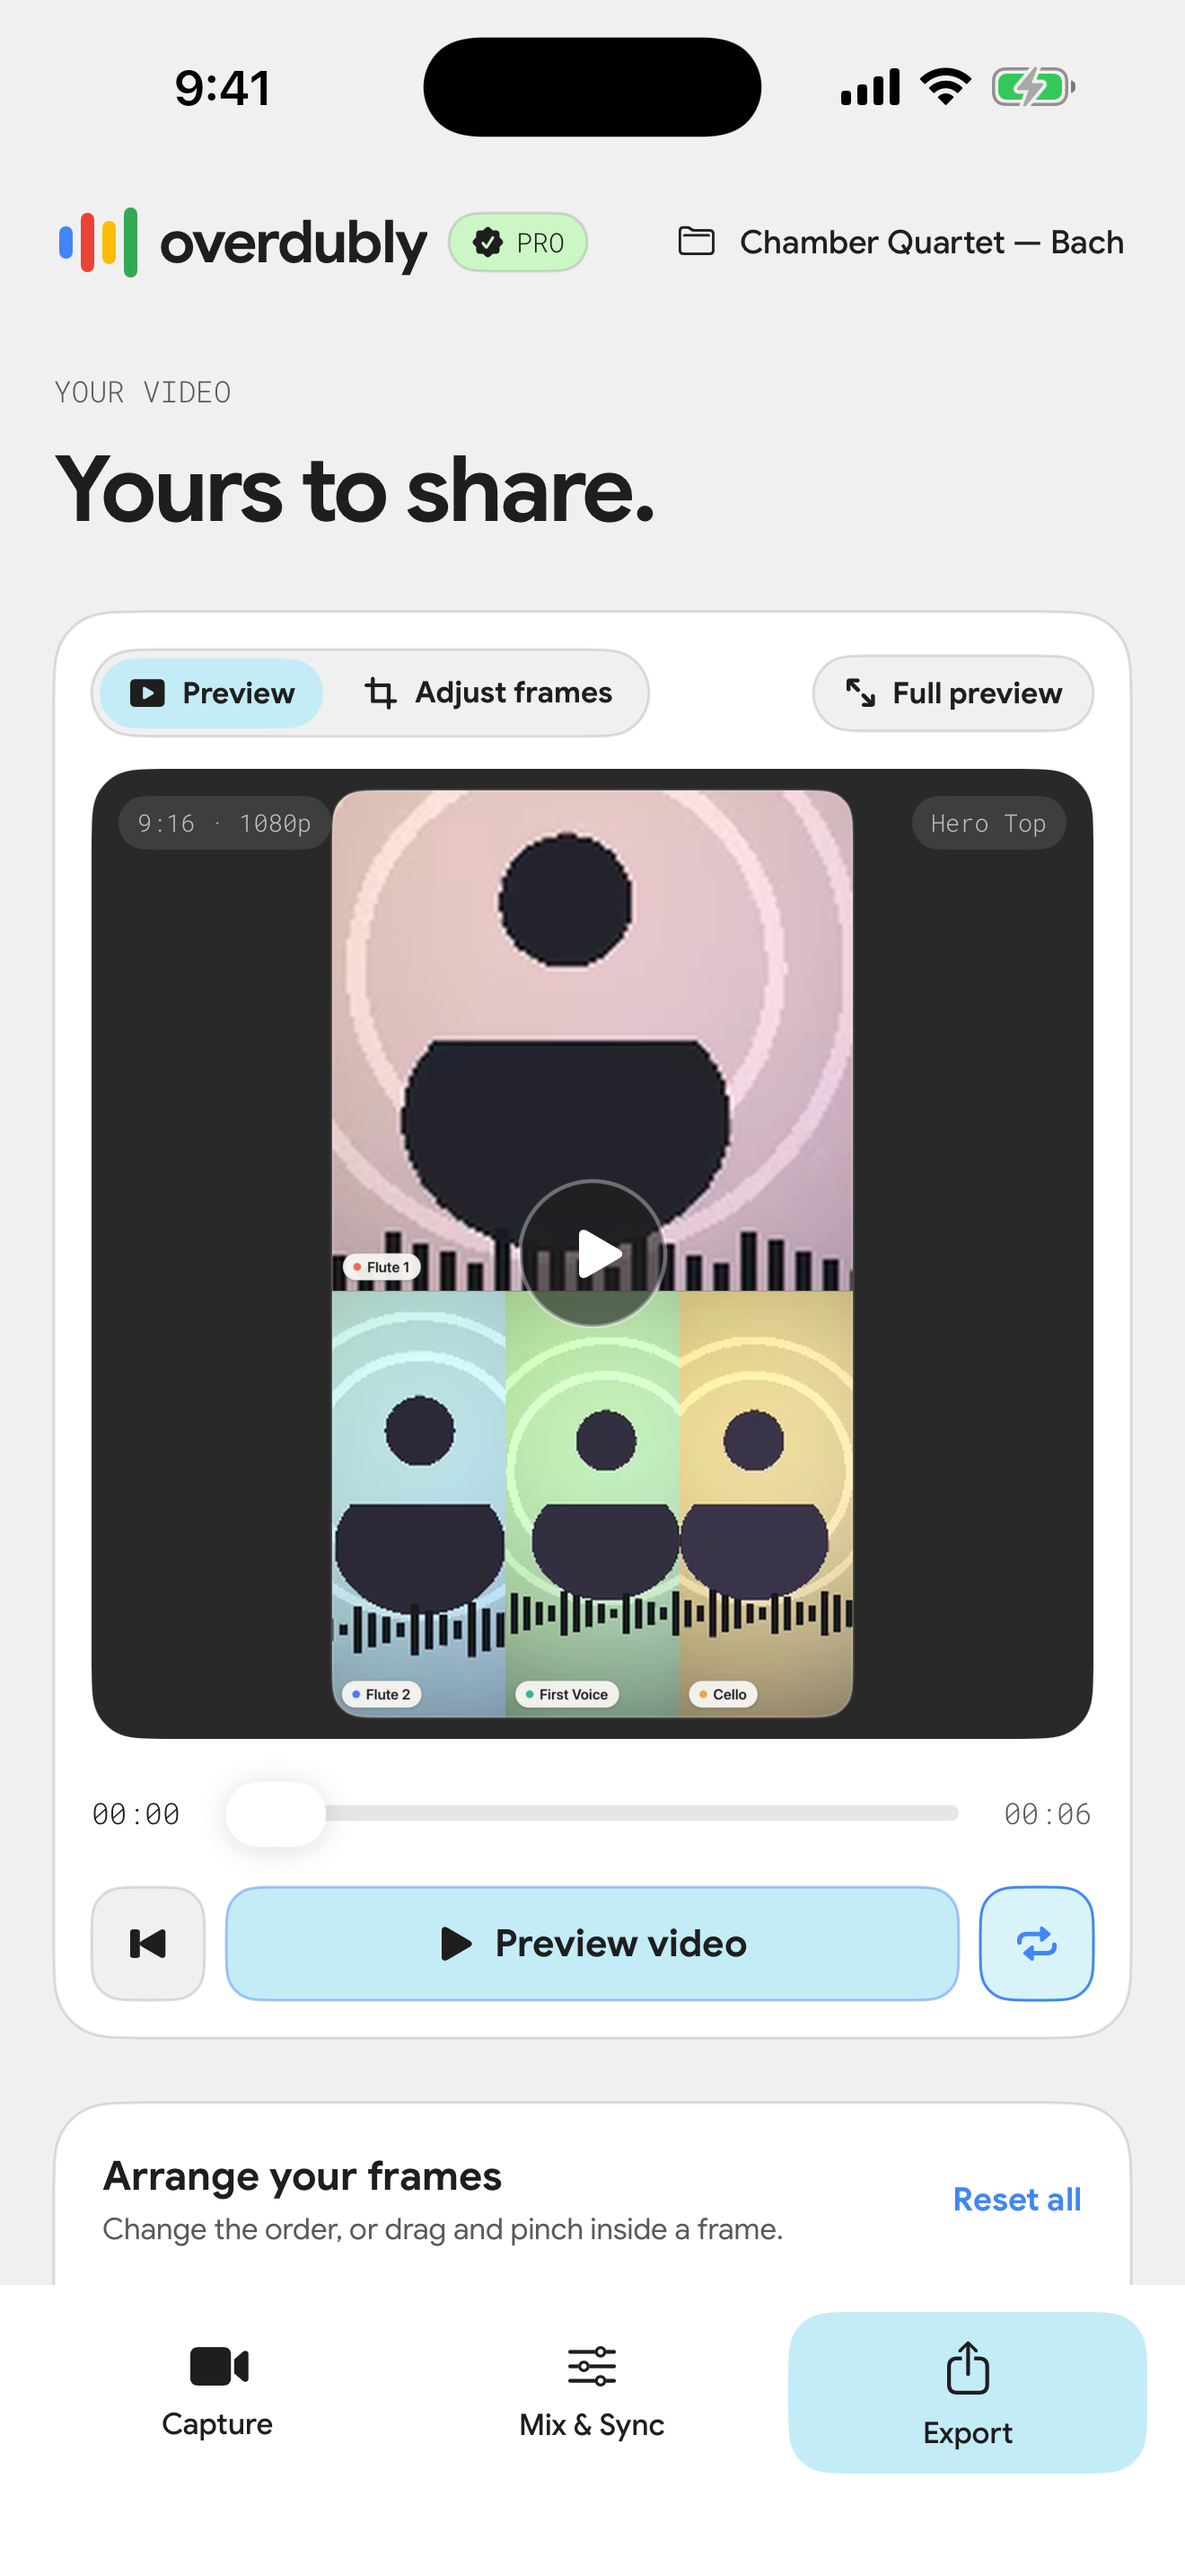
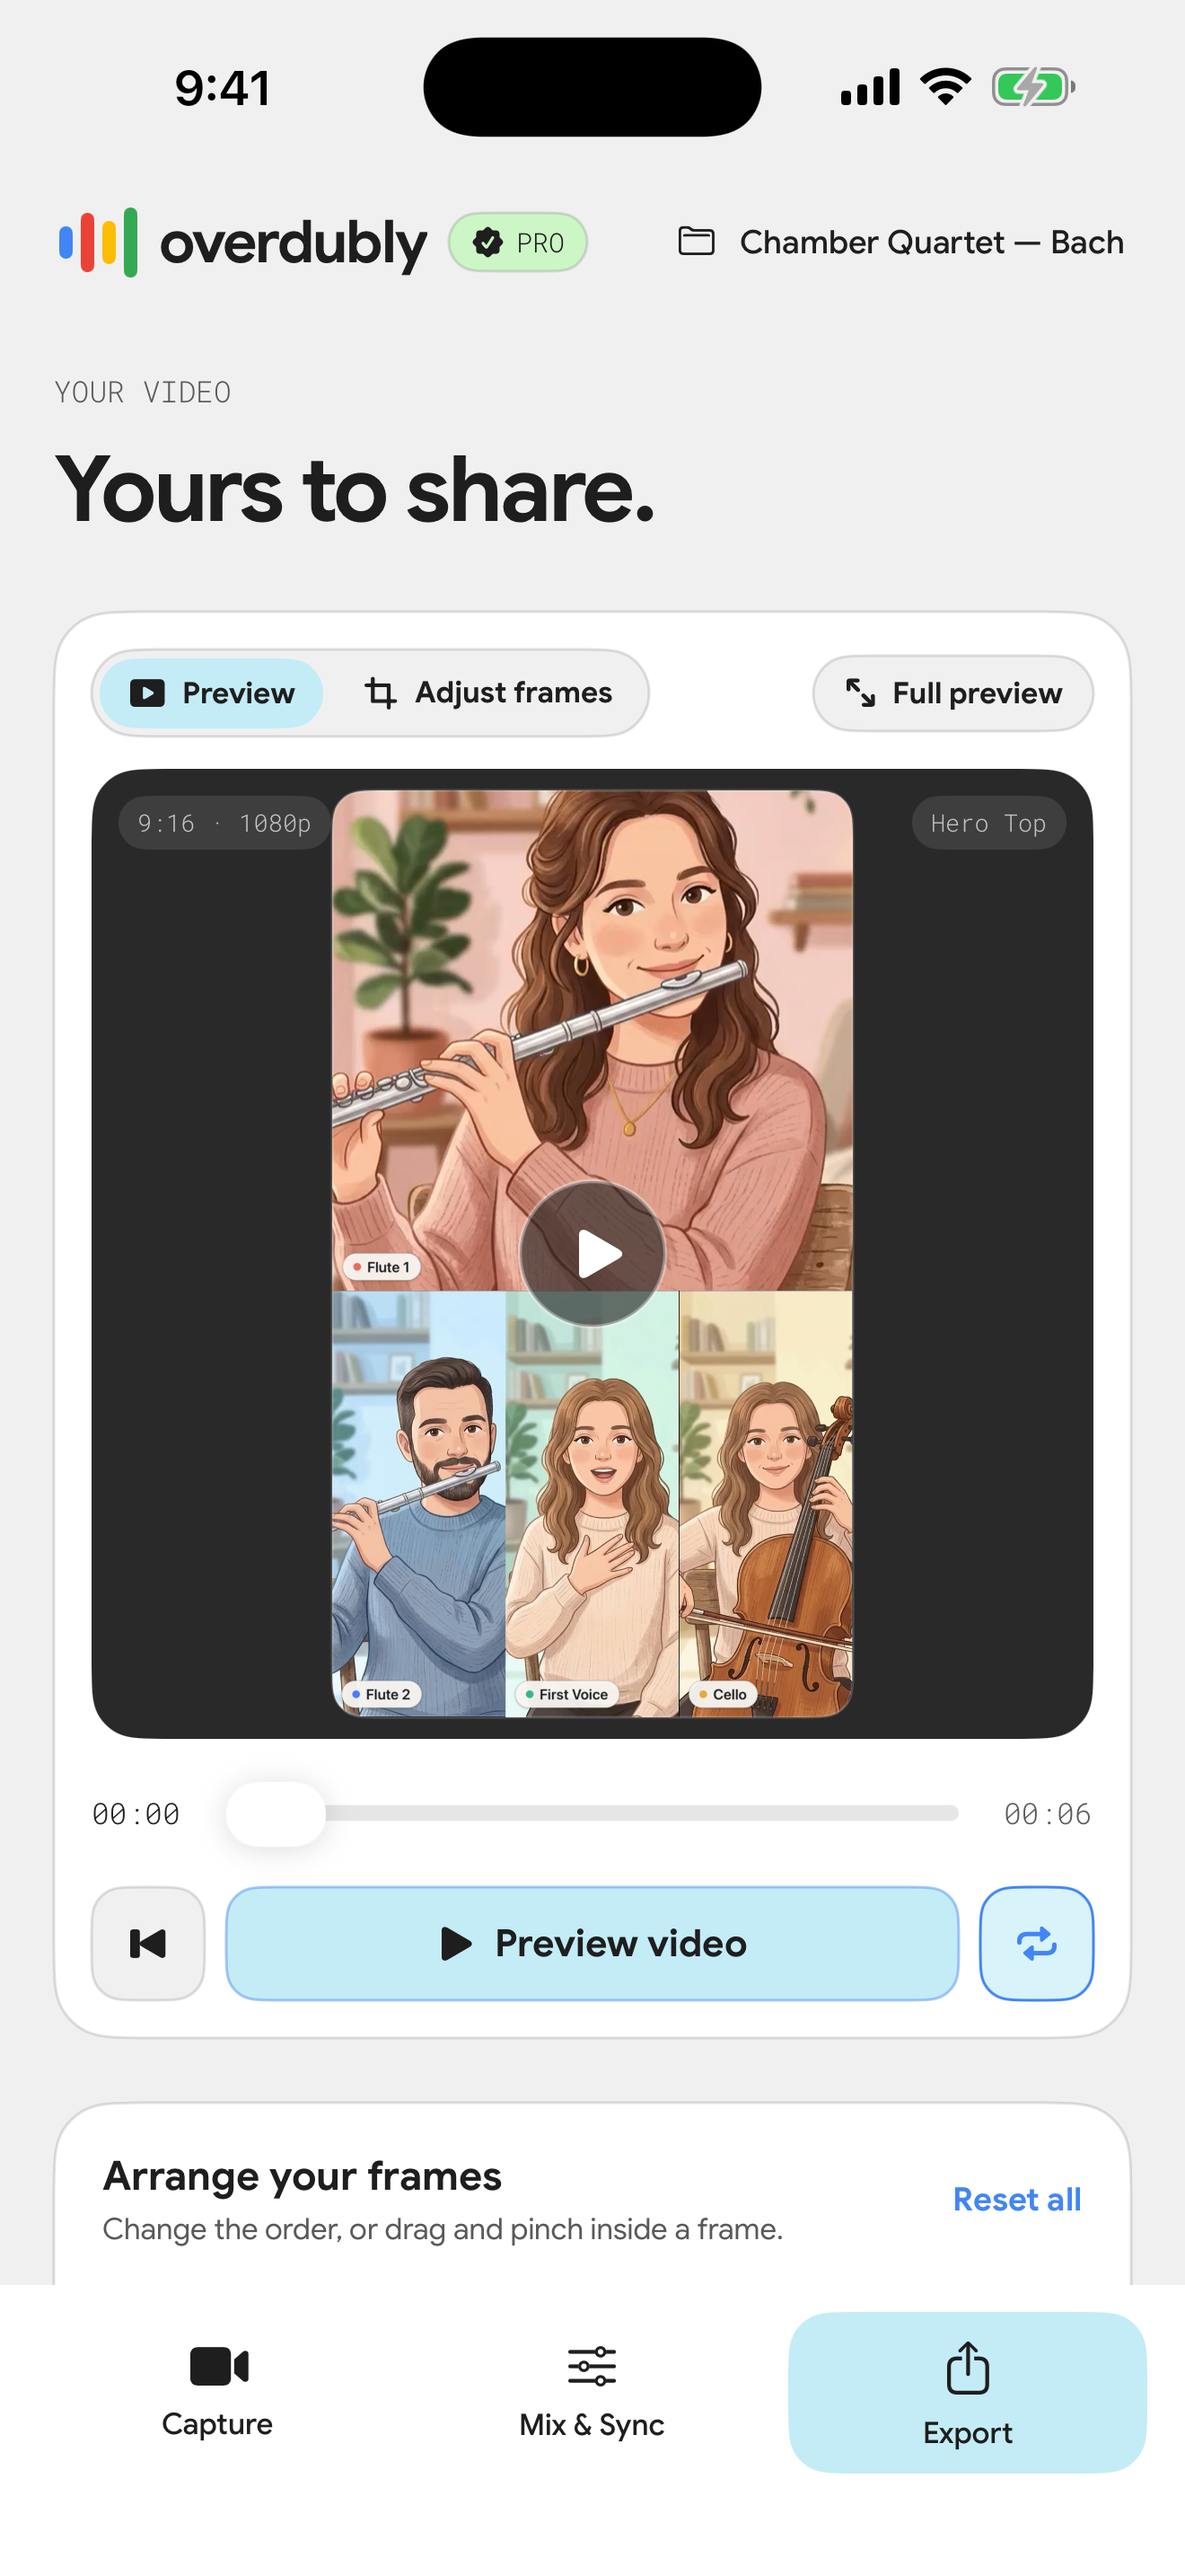
chore(screenshots): illustrated performers, story order, short captions
- Simulator fixture renders scripts/fixtures/part-N.png as sample clips.
- New hero scene (full-screen split-screen preview) leads the set.
- One short centered caption per screenshot (Apple asset best practices).
- Capture script creates simulators on demand and supports a DUO device.

Changed region(s): [[0.2795, 0.2793, 0.7455, 0.6827]]

diff --git a/scripts/generate_appstore_screenshots.swift b/scripts/generate_appstore_screenshots.swift
@@ -33,20 +33,22 @@ struct SceneMeta {
     let subtitle: String
 }
 
+// Ordered as a story (Apple asset best practices): outcome first, then how you get there.
+// `index` is the raw simulator scene captured by scripts/capture_appstore_scenes.sh.
 let scenesByLocale: [String: [SceneMeta]] = [
     "es-MX": [
-        SceneMeta(index: 1, badge: "01 · GRABA PARTE POR PARTE", title: "Cada parte. Todo tú.", subtitle: "Graba tu voz o tu instrumento con metrónomo y cuenta regresiva."),
-        SceneMeta(index: 2, badge: "02 · MÍRALO ANTES DE CREARLO", title: "Mira tu video completo.", subtitle: "Reproduce todas tus partes juntas antes de crear el video."),
-        SceneMeta(index: 3, badge: "03 · MEZCLA Y SINCRONIZA", title: "Mejor en conjunto.", subtitle: "Ajusta el volumen y alinea tus partes con un toque o a mano."),
-        SceneMeta(index: 4, badge: "04 · 16 DISEÑOS", title: "Acomoda cada cuadro.", subtitle: "Cambia el orden, arrastra y acerca cada parte sin volver a grabar."),
-        SceneMeta(index: 5, badge: "05 · TODAS TUS SESIONES", title: "Tus sesiones, a mano.", subtitle: "Guarda tus proyectos y retómalos cuando quieras. Sin cuentas.")
+        SceneMeta(index: 7, badge: "", title: "Tu canción, en una pantalla.", subtitle: ""),
+        SceneMeta(index: 1, badge: "", title: "Graba cada parte a tiempo.", subtitle: ""),
+        SceneMeta(index: 4, badge: "", title: "Acomoda cada cuadro.", subtitle: ""),
+        SceneMeta(index: 3, badge: "", title: "Mezcla y sincroniza.", subtitle: ""),
+        SceneMeta(index: 2, badge: "", title: "Guarda y comparte.", subtitle: "")
     ],
     "en-US": [
-        SceneMeta(index: 1, badge: "01 · RECORD PART BY PART", title: "Every part. All you.", subtitle: "Record your voice or instrument with a metronome and count-in."),
-        SceneMeta(index: 2, badge: "02 · SEE IT FIRST", title: "Watch the whole video.", subtitle: "Play all your parts together before you create the video."),
-        SceneMeta(index: 3, badge: "03 · MIX AND SYNC", title: "Better together.", subtitle: "Set the volume and line up your parts with one tap or by hand."),
-        SceneMeta(index: 4, badge: "04 · 16 LAYOUTS", title: "Arrange every frame.", subtitle: "Reorder, drag, and zoom each part without recording again."),
-        SceneMeta(index: 5, badge: "05 · ALL YOUR SESSIONS", title: "Your sessions, close by.", subtitle: "Keep your projects and pick them up anytime. No accounts.")
+        SceneMeta(index: 7, badge: "", title: "Your song, on one screen.", subtitle: ""),
+        SceneMeta(index: 1, badge: "", title: "Record every part on time.", subtitle: ""),
+        SceneMeta(index: 4, badge: "", title: "Arrange every frame.", subtitle: ""),
+        SceneMeta(index: 3, badge: "", title: "Mix and sync.", subtitle: ""),
+        SceneMeta(index: 2, badge: "", title: "Save and share.", subtitle: "")
     ]
 ]
 
@@ -95,66 +97,35 @@ func renderPoster(
     bgColor.setFill()
     NSBezierPath(rect: NSRect(x: 0, y: 0, width: W, height: H)).fill()
 
-    let marginX: CGFloat = isIPad ? 140 : 84
-    var cursorY: CGFloat = isIPad ? 92 : 88
+    let marginX: CGFloat = isIPad ? 120 : 64
+    var cursorY: CGFloat = isIPad ? 110 : 120
 
-    let badgeFont = NSFont.monospacedSystemFont(ofSize: isIPad ? 28 : 25, weight: .medium)
-    let titleFont = NSFont.systemFont(ofSize: isIPad ? 80 : 68, weight: .bold)
-    let subFont = NSFont.systemFont(ofSize: isIPad ? 42 : 36, weight: .regular)
-
-    // 1. Pill badge
-    let badgeAttrs: [NSAttributedString.Key: Any] = [
-        .font: badgeFont,
-        .foregroundColor: inkPrimary,
-        .kern: 1.2
-    ]
-    let badgeStr = NSAttributedString(string: meta.badge, attributes: badgeAttrs)
-    let badgeSize = badgeStr.size()
-    let pillH: CGFloat = isIPad ? 64 : 58
-    let pillW: CGFloat = badgeSize.width + 86
-
-    let pillRect = NSRect(x: marginX, y: cursorY, width: pillW, height: pillH)
-    accent.pillBg.setFill()
-    NSBezierPath(roundedRect: pillRect, xRadius: pillH / 2, yRadius: pillH / 2).fill()
-
-    let dotR: CGFloat = 10
-    let dotRect = NSRect(x: marginX + 22, y: cursorY + (pillH - dotR * 2) / 2, width: dotR * 2, height: dotR * 2)
-    accent.dot.setFill()
-    NSBezierPath(ovalIn: dotRect).fill()
-
-    badgeStr.draw(at: NSPoint(x: marginX + 54, y: cursorY + (pillH - badgeSize.height) / 2))
-    cursorY += pillH + 26
-
-    // 2. Title
+    // One short, centered caption (3-5 words) that stays legible at thumbnail size.
+    let titleFont = NSFont.systemFont(ofSize: isIPad ? 104 : 92, weight: .bold)
+    let titlePara = NSMutableParagraphStyle()
+    titlePara.alignment = .center
+    titlePara.lineSpacing = 4
     let titleAttrs: [NSAttributedString.Key: Any] = [
         .font: titleFont,
         .foregroundColor: inkPrimary,
-        .kern: -1.4
-    ]
-    let titleStr = NSAttributedString(string: meta.title, attributes: titleAttrs)
-    let titleSize = titleStr.size()
-    titleStr.draw(at: NSPoint(x: marginX, y: cursorY))
-    cursorY += titleSize.height + 16
-
-    // 3. Subtitle wrapped
-    let para = NSMutableParagraphStyle()
-    para.lineSpacing = 6
-    let subAttrs: [NSAttributedString.Key: Any] = [
-        .font: subFont,
-        .foregroundColor: inkSecondary,
-        .paragraphStyle: para
+        .kern: -1.6,
+        .paragraphStyle: titlePara
     ]
     let maxTextW = W - marginX * 2
-    let subStr = NSAttributedString(string: meta.subtitle, attributes: subAttrs)
-    let subBounds = subStr.boundingRect(
-        with: NSSize(width: maxTextW, height: 400),
-        options: [.usesLineFragmentOrigin, .usesFontLeading]
-    )
-    subStr.draw(
-        with: NSRect(x: marginX, y: cursorY, width: maxTextW, height: ceil(subBounds.height) + 12),
-        options: [.usesLineFragmentOrigin, .usesFontLeading]
-    )
-    cursorY += ceil(subBounds.height) + (isIPad ? 46 : 42)
+    let titleStr = NSAttributedString(string: meta.title, attributes: titleAttrs)
+    let titleBounds = titleStr.boundingRect(with: NSSize(width: maxTextW, height: 600),
+                                            options: [.usesLineFragmentOrigin, .usesFontLeading])
+    titleStr.draw(with: NSRect(x: marginX, y: cursorY, width: maxTextW, height: ceil(titleBounds.height) + 8),
+                  options: [.usesLineFragmentOrigin, .usesFontLeading])
+    cursorY += ceil(titleBounds.height)
+
+    // Small accent bar under the caption keeps the brand colors without extra words.
+    let barW: CGFloat = isIPad ? 120 : 96
+    let barH: CGFloat = isIPad ? 12 : 10
+    accent.dot.setFill()
+    NSBezierPath(roundedRect: NSRect(x: (W - barW) / 2, y: cursorY + 24, width: barW, height: barH),
+                 xRadius: barH / 2, yRadius: barH / 2).fill()
+    cursorY += 24 + barH + (isIPad ? 56 : 56)
 
     // 4. Device Bezel + Raw Screenshot
     let bottomMargin: CGFloat = isIPad ? 64 : 56
@@ -238,11 +209,12 @@ for (locale, list) in scenesByLocale {
         let iphoneRaw = rawDir.appendingPathComponent("iphone_scene_\(s).png")
         let ipadRaw = rawDir.appendingPathComponent("ipad_scene_\(s).png")
 
-        let iphoneOut = outRoot.appendingPathComponent("\(locale)/0\(s)_iphone67.png")
-        let ipadOut = outRoot.appendingPathComponent("\(locale)/0\(s)_ipad129.png")
+        let position = idx + 1
+        let iphoneOut = outRoot.appendingPathComponent("\(locale)/0\(position)_iphone67.png")
+        let ipadOut = outRoot.appendingPathComponent("\(locale)/0\(position)_ipad129.png")
 
         try renderPoster(width: 1290, height: 2796, rawURL: iphoneRaw, meta: meta, accent: accent, isIPad: false, outURL: iphoneOut)
         try renderPoster(width: 2064, height: 2752, rawURL: ipadRaw, meta: meta, accent: accent, isIPad: true, outURL: ipadOut)
-        print("[\(locale)] Generated 0\(s)_iphone67.png & 0\(s)_ipad129.png")
+        print("[\(locale)] Generated 0\(position) from scene \(s)")
     }
 }

diff --git a/LooplineApp/Harness/SimulatorSessionFixture.swift b/LooplineApp/Harness/SimulatorSessionFixture.swift
@@ -82,8 +82,65 @@ enum SimulatorSessionFixture {
         try AVAudioFile(forWriting: url, settings: format.settings).write(from: buffer)
     }
 
+    /// Optional illustrated performer for App Store screenshots, copied into the app's
+    /// Documents/Fixtures folder by scripts/capture_appstore_scenes.sh.
+    private static func fixtureImage(index: Int) -> CGImage? {
+        guard let documents = FileManager.default.urls(for: .documentDirectory, in: .userDomainMask).first,
+              let data = try? Data(contentsOf: documents.appendingPathComponent("Fixtures/part-\(index).png")),
+              let provider = CGDataProvider(data: data as CFData) else { return nil }
+        return CGImage(pngDataProviderSource: provider, decode: nil, shouldInterpolate: true, intent: .defaultIntent)
+    }
+
+    /// Renders a still illustration as a short clip with a slow push-in so it reads as video.
+    private static func writeIllustratedVideo(_ image: CGImage, to url: URL) async throws {
+        let writer = try AVAssetWriter(outputURL: url, fileType: .mov)
+        let w = 720
+        let h = 960
+        let input = AVAssetWriterInput(mediaType: .video, outputSettings: [
+            AVVideoCodecKey: AVVideoCodecType.h264, AVVideoWidthKey: w, AVVideoHeightKey: h])
+        let adaptor = AVAssetWriterInputPixelBufferAdaptor(assetWriterInput: input,
+            sourcePixelBufferAttributes: [kCVPixelBufferPixelFormatTypeKey as String: kCVPixelFormatType_32ARGB,
+                kCVPixelBufferWidthKey as String: w, kCVPixelBufferHeightKey as String: h])
+        writer.add(input)
+        guard writer.startWriting() else { throw writer.error ?? CaptureError.writeFailed }
+        defer { if writer.status == .writing { writer.cancelWriting() } }
+        writer.startSession(atSourceTime: .zero)
+        let colorSpace = CGColorSpaceCreateDeviceRGB()
+        let fill = max(CGFloat(w) / CGFloat(image.width), CGFloat(h) / CGFloat(image.height))
+        for frame in 0..<60 {
+            while !input.isReadyForMoreMediaData {
+                try Task.checkCancellation()
+                guard writer.status == .writing else { throw writer.error ?? CaptureError.writeFailed }
+                try await Task.sleep(for: .milliseconds(5))
+            }
+            var pixel: CVPixelBuffer?
+            guard CVPixelBufferCreate(kCFAllocatorDefault, w, h, kCVPixelFormatType_32ARGB, nil, &pixel) == kCVReturnSuccess,
+                  let pixel, CVPixelBufferLockBaseAddress(pixel, []) == kCVReturnSuccess else { throw CaptureError.writeFailed }
+            if let context = CGContext(data: CVPixelBufferGetBaseAddress(pixel), width: w, height: h, bitsPerComponent: 8,
+                                       bytesPerRow: CVPixelBufferGetBytesPerRow(pixel), space: colorSpace,
+                                       bitmapInfo: CGImageAlphaInfo.noneSkipFirst.rawValue | CGBitmapInfo.byteOrder32Big.rawValue) {
+                let scale = fill * (1.0 + 0.05 * CGFloat(frame) / 59.0)
+                let dw = CGFloat(image.width) * scale
+                let dh = CGFloat(image.height) * scale
+                context.interpolationQuality = .high
+                context.draw(image, in: CGRect(x: (CGFloat(w) - dw) / 2, y: (CGFloat(h) - dh) / 2, width: dw, height: dh))
+            }
+            CVPixelBufferUnlockBaseAddress(pixel, [])
+            guard adaptor.append(pixel, withPresentationTime: CMTime(value: Int64(frame), timescale: 10)) else {
+                throw writer.error ?? CaptureError.writeFailed
+            }
+        }
+        input.markAsFinished()
+        await writer.finishWriting()
+        guard writer.status == .completed else { throw writer.error ?? CaptureError.writeFailed }
+    }
+
     private static func writeVideo(in directory: URL, index: Int, color: UInt32) async throws -> URL {
         let url = directory.appendingPathComponent("video-\(index).mov")
+        if let image = fixtureImage(index: index) {
+            try await writeIllustratedVideo(image, to: url)
+            return url
+        }
         let writer = try AVAssetWriter(outputURL: url, fileType: .mov)
         let w = 180
         let h = 240

diff --git a/LooplineApp/UI/LooplineRootView.swift b/LooplineApp/UI/LooplineRootView.swift
@@ -109,6 +109,9 @@ struct LooplineRootView: View {
                         showingProjects = true
                     case "6":
                         model.presentPaywall(.general)
+                    case "7":
+                        model.select(.export)
+                        model.openFullScreenPreview()
                     default:
                         break
                     }
